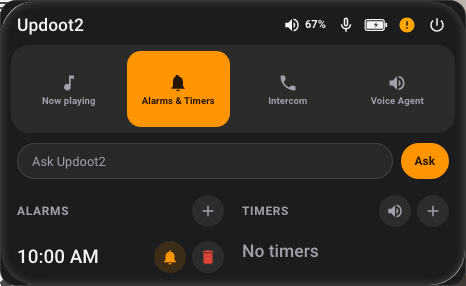
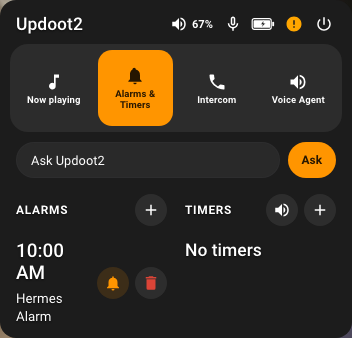
Refresh all README screenshots with matching dark background
Re-capture all five card screenshots from the live card on a uniform
dark card background, including the new Add to Library transport button.

diff --git a/src/kiosk-satellite-card.ts b/src/kiosk-satellite-card.ts
@@ -1,6 +1,6 @@
 import { KioskRedisplay } from "./kiosk-redisplay";
 
-const RELEASE_MARKER = "kiosk-satellite-card@0.1.18";
+const RELEASE_MARKER = "kiosk-satellite-card@0.1.19";
 
 KioskRedisplay.releaseMarker = RELEASE_MARKER;
 
